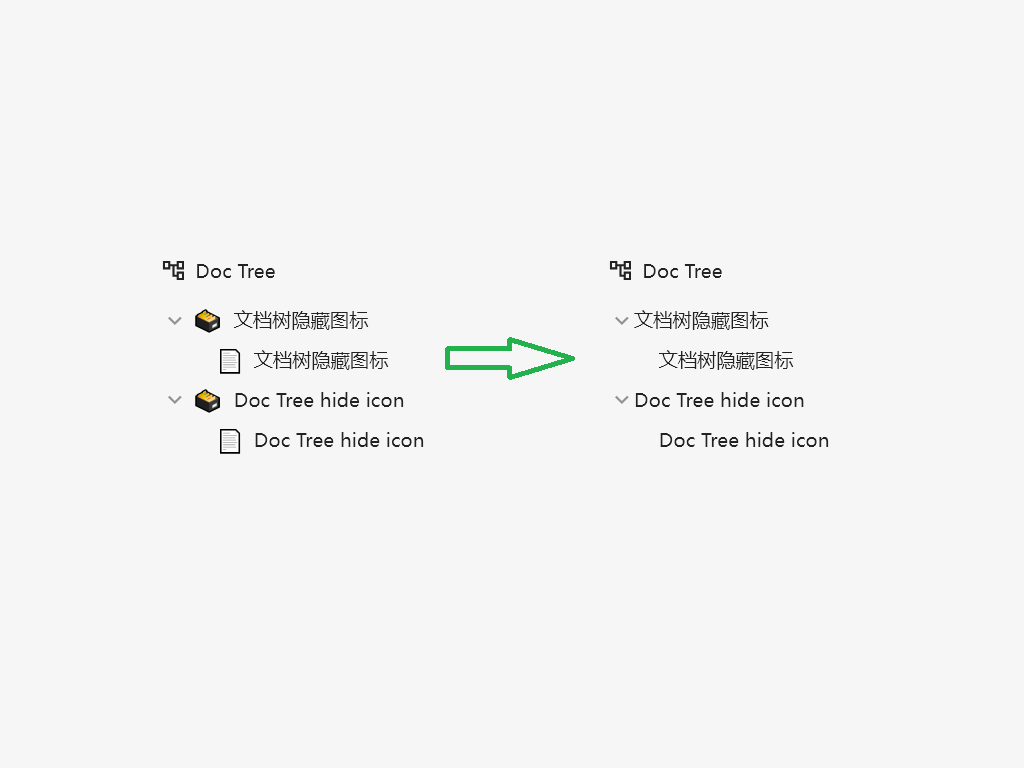
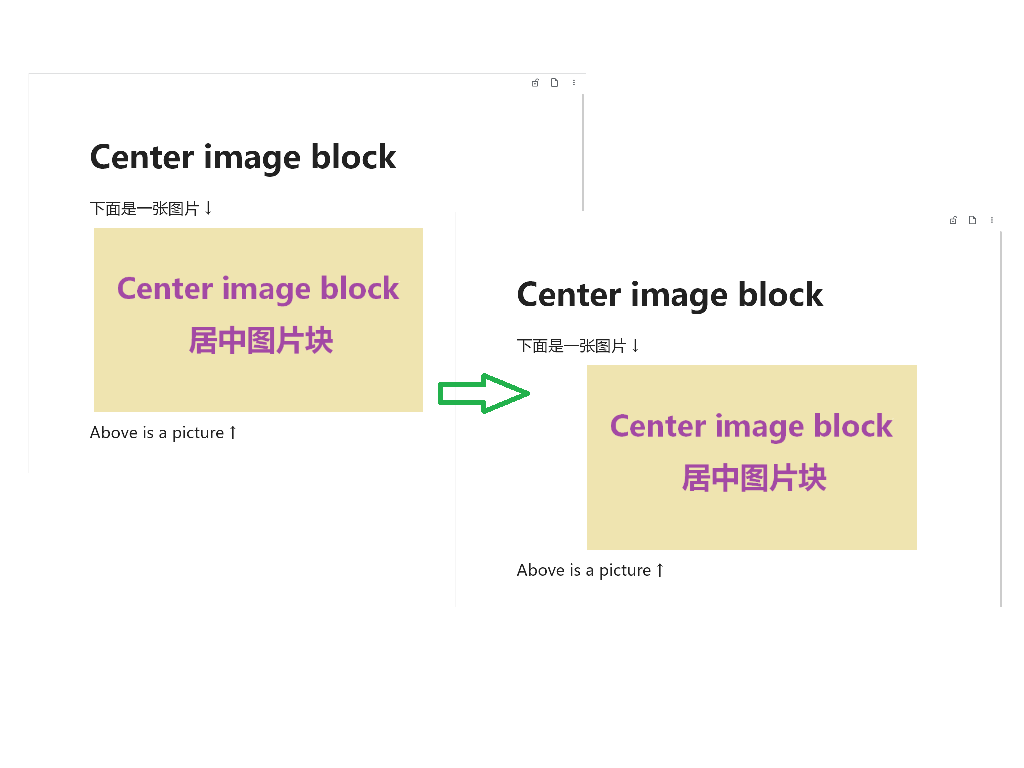
发布

Changed region(s): [[0.0938, 0.25, 0.9062, 0.75], [0.0625, 0.1875, 0.4062, 0.25]]

diff --git a/index.css b/index.css
@@ -1,4 +1,4 @@
-/* 在文档树中隐藏文档前的图标 CSS片段 https://github.com/TCOTC/siyuan-css-hide-doc-tree-icon */
-.b3-list-item__icon {
-    display: none ;
-   }
+/* 居中图片块 CSS片段 https://github.com/TCOTC/siyuan-css-image-block-centered */
+.p:has(span.img) { 
+    text-align:center;
+    }

diff --git a/README.md b/README.md
@@ -1,12 +1,12 @@
-[中文](https://github.com/TCOTC/siyuan-css-hide-doc-tree-icon/blob/main/README_zh_CN.md)
+[中文](https://github.com/TCOTC/siyuan-css-image-block-centered/blob/main/README_zh_CN.md)
 
-# SiYuan Doc Tree hide icon plugin
+# SiYuan Center image block plugin
 
 ### CSS
 
-```
-/* Hide the icon in front of the document in the document tree CSS https://github.com/TCOTC/siyuan-css-hide-doc-tree-icon */
-.b3-list-item__icon {
-    display: none ;
-   }
+```css
+/* Center image block CSS https://github.com/TCOTC/siyuan-css-image-block-centered */
+.p:has(span.img) { 
+    text-align:center;
+    }
 ```

diff --git a/README_zh_CN.md b/README_zh_CN.md
@@ -1,12 +1,12 @@
-[English](https://github.com/TCOTC/siyuan-css-hide-doc-tree-icon/blob/main/README.md)
+[English](https://github.com/TCOTC/siyuan-css-image-block-centered/blob/main/README.md)
 
-# 思源笔记 文档树隐藏图标 插件
+# 思源笔记 居中图片块 插件
 
 ### CSS
 
-```
-/* 在文档树中隐藏文档前的图标 CSS片段 https://github.com/TCOTC/siyuan-css-hide-doc-tree-icon */
-.b3-list-item__icon {
-    display: none ;
-   }
+```css
+/* 居中图片块 CSS片段 https://github.com/TCOTC/siyuan-css-image-block-centered */
+.p:has(span.img) { 
+    text-align:center;
+    }
 ```
